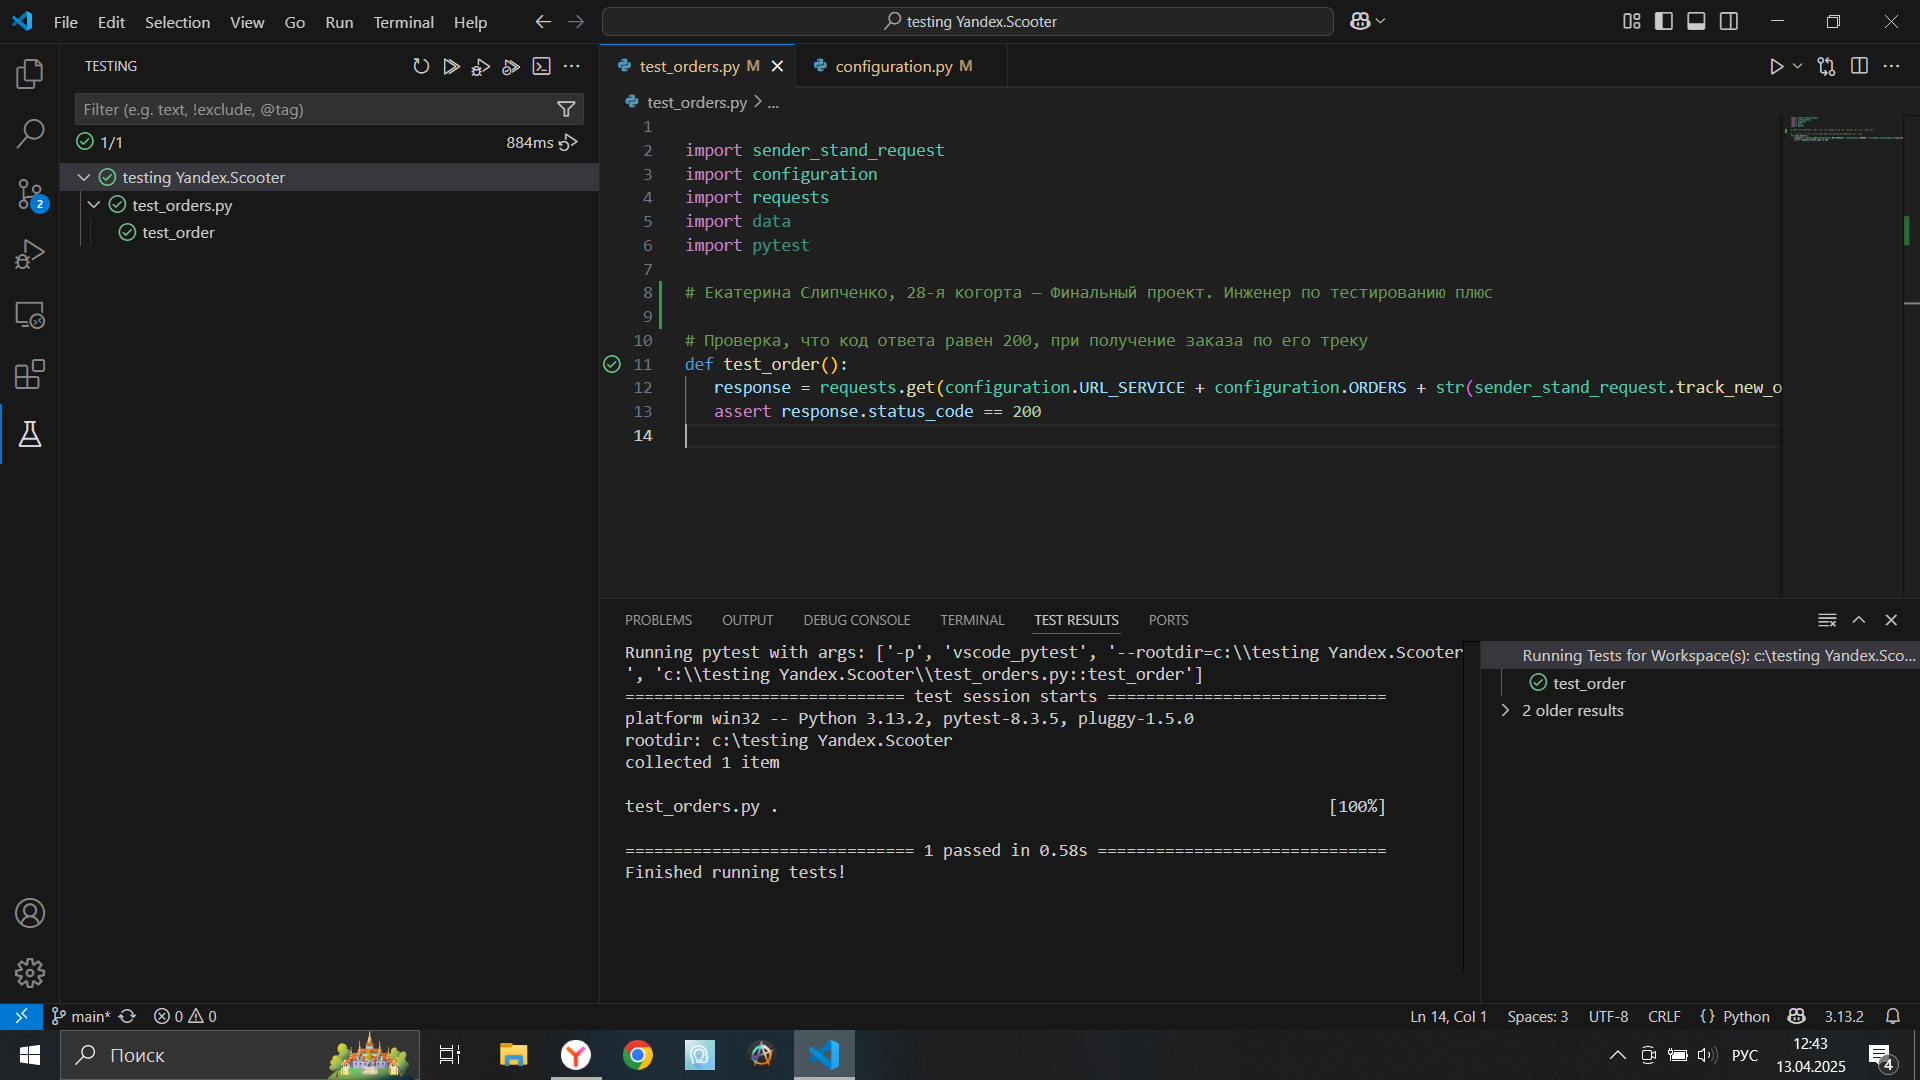
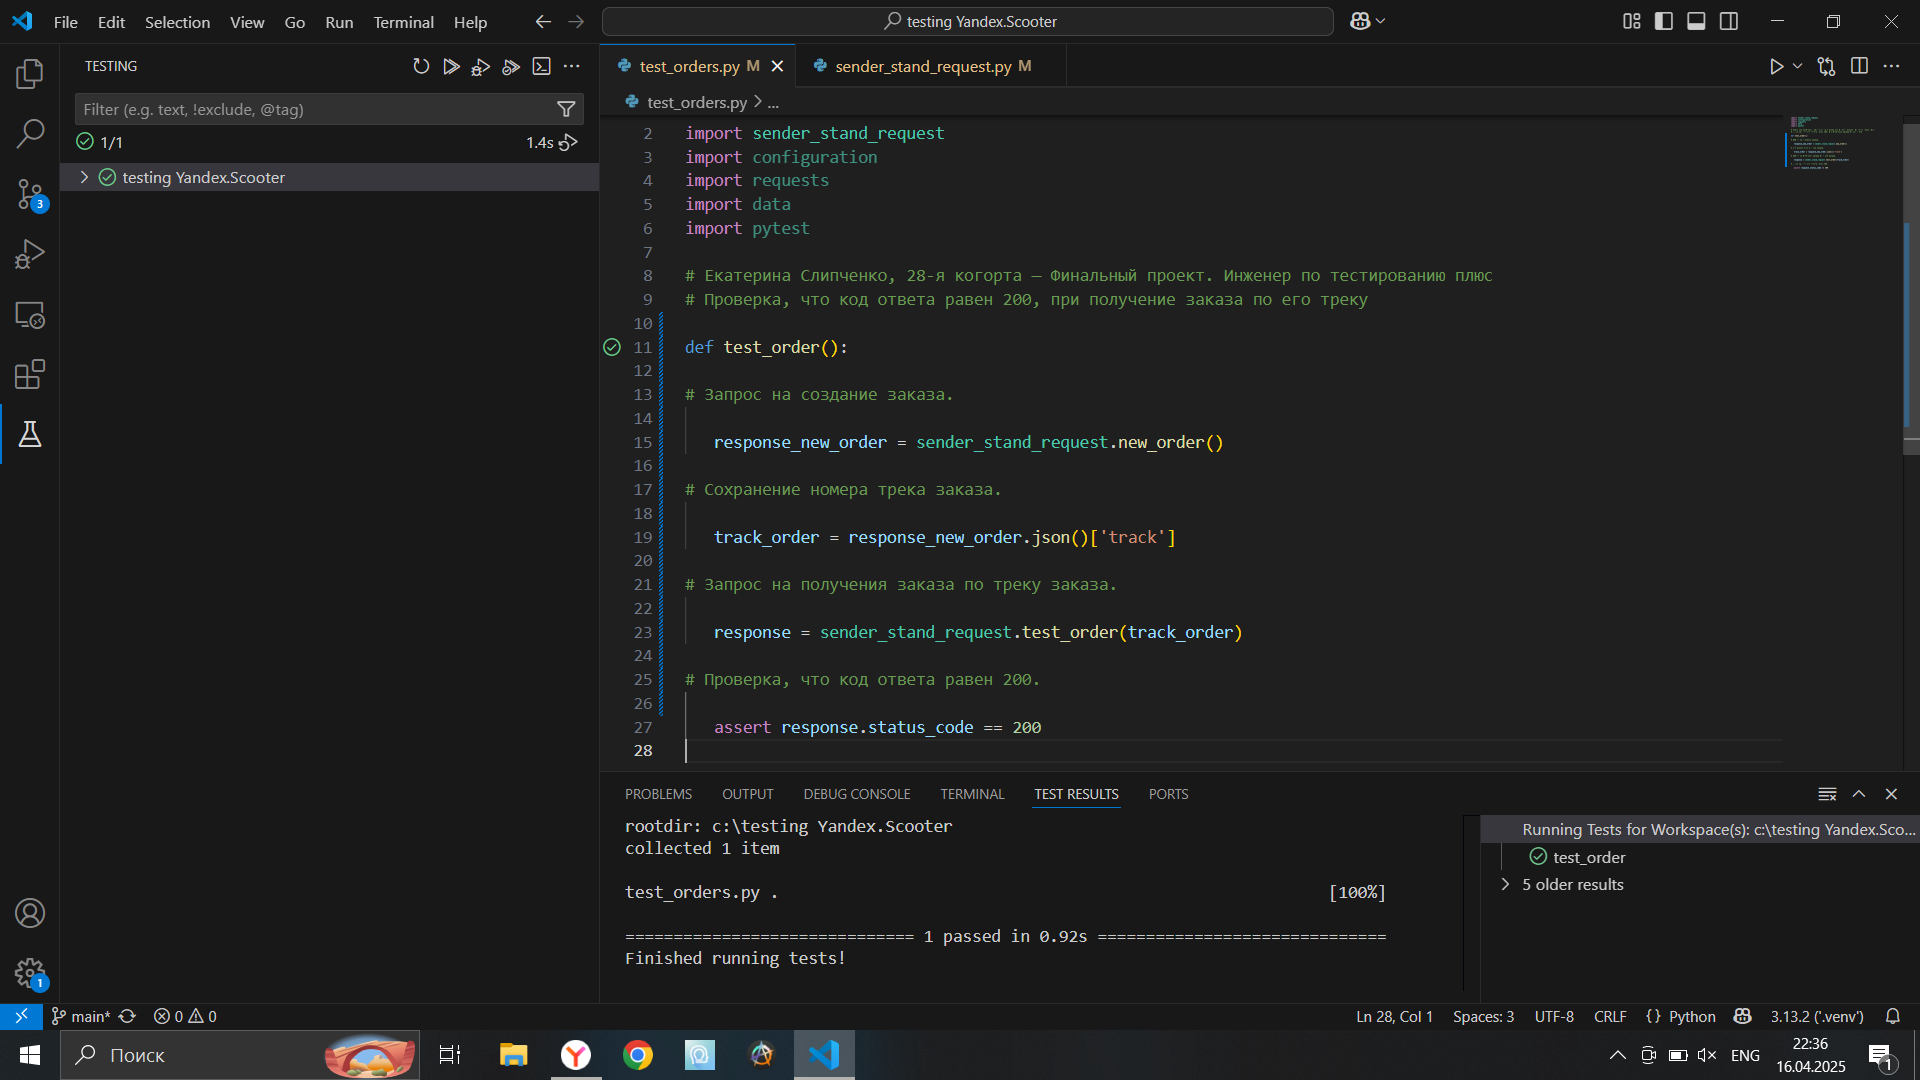
Доработанный вариант

diff --git a/test_orders.py b/test_orders.py
@@ -7,6 +7,21 @@ import pytest
 
 # Екатерина Слипченко, 28-я когорта — Финальный проект. Инженер по тестированию плюс
 # Проверка, что код ответа равен 200, при получение заказа по его треку 
-def test_order():  
-   response = requests.get(configuration.URL_SERVICE + configuration.ORDERS + str(sender_stand_request.track_new_order()))
+
+def test_order():
+
+# Запрос на создание заказа.
+
+   response_new_order = sender_stand_request.new_order()
+
+# Сохранение номера трека заказа.
+
+   track_order = response_new_order.json()['track']
+
+# Запрос на получения заказа по треку заказа.
+
+   response = sender_stand_request.test_order(track_order)
+
+# Проверка, что код ответа равен 200.
+
    assert response.status_code == 200

diff --git a/sender_stand_request.py b/sender_stand_request.py
@@ -2,10 +2,14 @@ import configuration
 import requests
 import data
 
-# Создание заказа и получение его номера  
-def track_new_order():  
-    new_order_response = requests.post(configuration.URL_SERVICE + configuration.NEW_ORDERS,
+# Создание заказа  
+def new_order():  
+    return requests.post(configuration.URL_SERVICE + configuration.NEW_ORDERS,
                          json=data.new_orders_body)
 
-    order_track = new_order_response.json()['track']
-    return order_track
+
+
+# Получение заказа по его треку
+def test_order(order_track):  
+    return  requests.get(configuration.URL_SERVICE + configuration.ORDERS + str(order_track))
+    

diff --git a/configuration.py b/configuration.py
@@ -1,4 +1,4 @@
 #URL и пути запросов: 
-URL_SERVICE = "https://41fdd949-3b02-45dd-803b-ca77233262a0.serverhub.praktikum-services.ru/"
+URL_SERVICE = "https://e4230a72-07d4-4f3c-9c6a-57f6e0b1781c.serverhub.praktikum-services.ru/"
 NEW_ORDERS = "/api/v1/orders"
 ORDERS = "/v1/orders/track?t=" 
